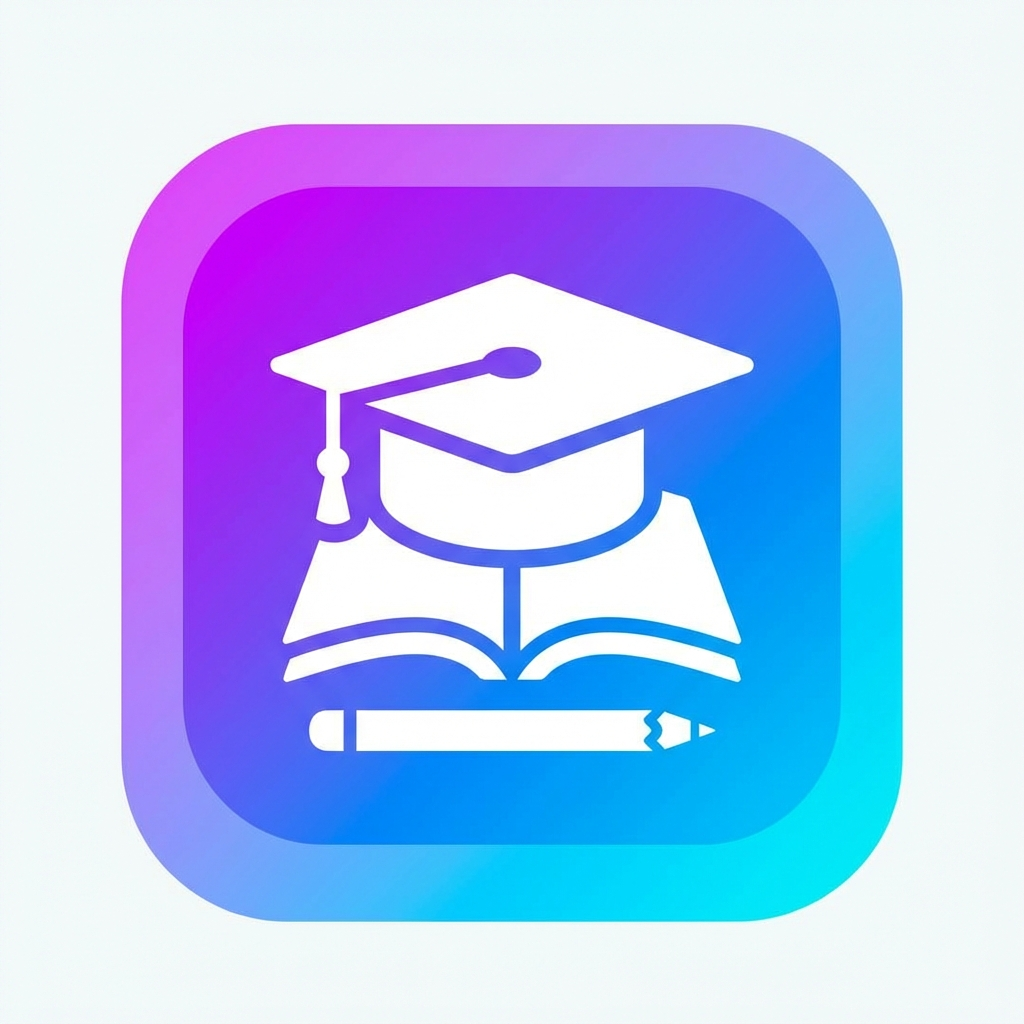
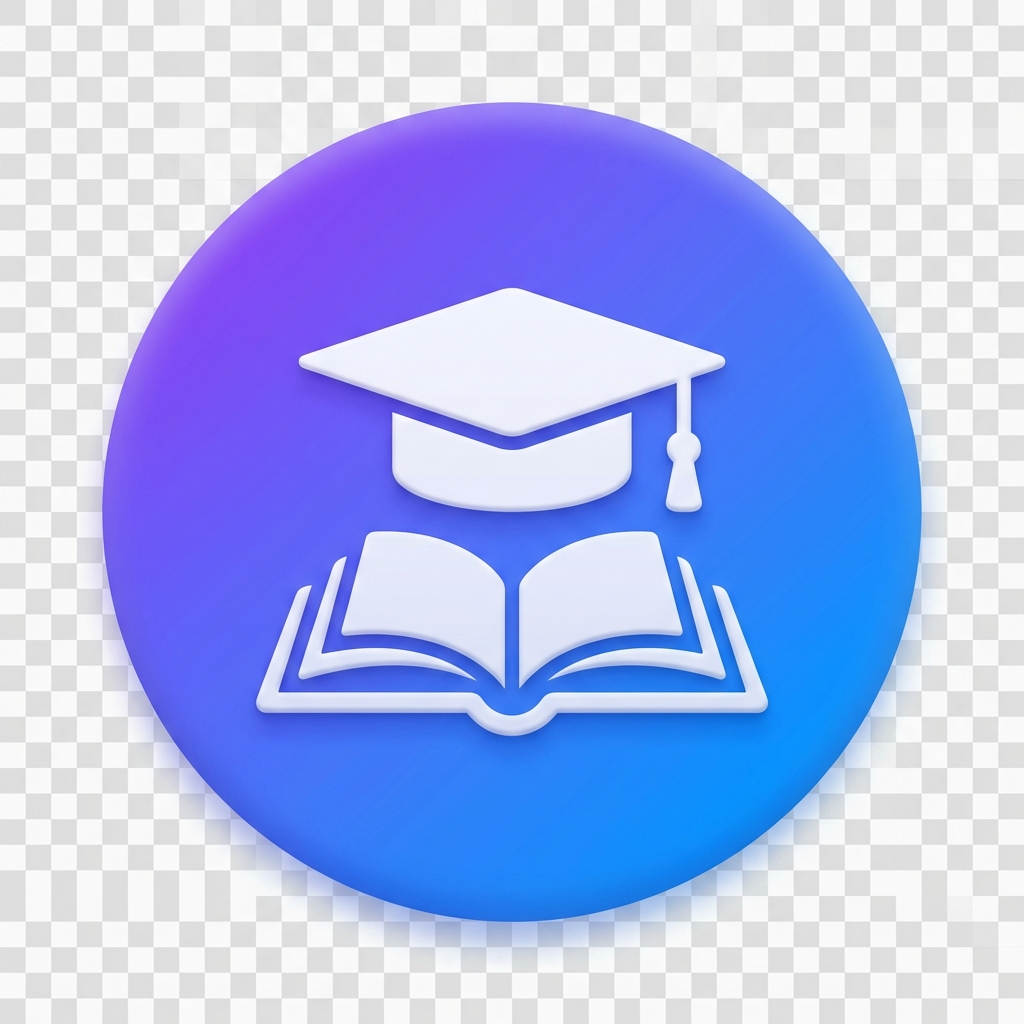
UI 개선: 원형 아이콘, AI 상담 제목 변경, 동일 건축물 학원목록 정보 강화

diff --git a/coding/academy_search/src/App.jsx b/coding/academy_search/src/App.jsx
@@ -548,62 +548,37 @@ function App() {
           <div
             onClick={() => window.open('https://notebooklm.google.com/notebook/bc3a0bc5-bad0-4450-bf8b-96573e39fdce', '_blank')}
             style={{
-              position: 'relative',
-              zIndex: 1,
-              padding: '16px 20px',
-              background: 'linear-gradient(135deg, var(--primary-glow) 0%, var(--bg-card) 100%)',
-              border: '2px solid var(--primary)',
-              borderRadius: '16px',
+              padding: '14px 18px',
+              background: 'var(--bg-card)',
+              border: '1px solid var(--border-color)',
+              borderRadius: '12px',
               cursor: 'pointer',
-              transition: 'all 0.3s ease',
-              boxShadow: '0 4px 12px rgba(99, 102, 241, 0.15)',
+              transition: 'all 0.2s',
               display: 'flex',
               alignItems: 'center',
               justifyContent: 'space-between',
-              gap: '12px'
+              gap: '10px'
             }}
             onMouseOver={(e) => {
-              e.currentTarget.style.transform = 'translateY(-2px)';
-              e.currentTarget.style.boxShadow = '0 6px 20px rgba(99, 102, 241, 0.25)';
+              e.currentTarget.style.borderColor = 'var(--primary)';
+              e.currentTarget.style.backgroundColor = 'var(--primary-glow)';
             }}
             onMouseOut={(e) => {
-              e.currentTarget.style.transform = 'translateY(0)';
-              e.currentTarget.style.boxShadow = '0 4px 12px rgba(99, 102, 241, 0.15)';
+              e.currentTarget.style.borderColor = 'var(--border-color)';
+              e.currentTarget.style.backgroundColor = 'var(--bg-card)';
             }}
           >
-            <div style={{ display: 'flex', alignItems: 'center', gap: '12px', flex: 1 }}>
-              <div style={{
-                width: '40px',
-                height: '40px',
-                background: 'var(--primary)',
-                borderRadius: '12px',
-                display: 'flex',
-                alignItems: 'center',
-                justifyContent: 'center',
-                fontSize: '20px',
-                flexShrink: 0
+            <div style={{ display: 'flex', alignItems: 'center', gap: '10px' }}>
+              <span style={{ fontSize: '18px' }}>💡</span>
+              <span style={{
+                fontSize: '0.95rem',
+                fontWeight: '600',
+                color: 'var(--text-main)'
               }}>
-                💡
-              </div>
-              <div style={{ flex: 1 }}>
-                <div style={{
-                  fontSize: '1rem',
-                  fontWeight: '700',
-                  color: 'var(--primary)',
-                  marginBottom: '4px'
-                }}>
-                  학원 법령 AI 상담 (NotebookLM)
-                </div>
-                <div style={{
-                  fontSize: '0.85rem',
-                  color: 'var(--text-muted)',
-                  fontWeight: '500'
-                }}>
-                  궁금한 점을 즉시 물어보세요
-                </div>
-              </div>
+                학원 업무 AI 상담 (노트북LM)
+              </span>
             </div>
-            <svg width="20" height="20" viewBox="0 0 24 24" fill="none" stroke="var(--primary)" strokeWidth="2.5" strokeLinecap="round" strokeLinejoin="round">
+            <svg width="16" height="16" viewBox="0 0 24 24" fill="none" stroke="var(--text-muted)" strokeWidth="2.5" strokeLinecap="round" strokeLinejoin="round">
               <path d="M18 13v6a2 2 0 0 1-2 2H5a2 2 0 0 1-2-2V8a2 2 0 0 1 2-2h6"></path>
               <polyline points="15 3 21 3 21 9"></polyline>
               <line x1="10" y1="14" x2="21" y2="3"></line>
@@ -691,176 +666,75 @@ function App() {
                     <span>📚</span>
                     <span>업무 메뉴얼</span>
                   </h4>
-                  <div style={{ display: 'flex', flexDirection: 'column', gap: '12px' }}>
-                    {/* 경기도 메뉴얼 */}
-                    <div style={{
-                      padding: '14px',
-                      background: 'var(--bg-main)',
-                      border: '1px solid var(--border-color)',
-                      borderRadius: '8px'
-                    }}>
-                      <div style={{
-                        fontSize: '0.85rem',
-                        fontWeight: '600',
+                  <div style={{ display: 'flex', flexDirection: 'column', gap: '8px' }}>
+                    <a
+                      href="https://drive.google.com/file/d/1I6j4VkHEeDzKc6YvfTcv8Wl48LAzbSsN/preview"
+                      target="_blank"
+                      rel="noopener noreferrer"
+                      style={{
+                        padding: '10px 14px',
+                        background: 'var(--bg-main)',
+                        border: '1px solid var(--border-color)',
+                        borderRadius: '8px',
                         color: 'var(--text-main)',
-                        marginBottom: '8px'
-                      }}>
-                        • 경기도교육청 학원 업무 메뉴얼 (2024) - 474p
-                      </div>
-                      <div style={{ display: 'flex', gap: '8px' }}>
-                        <a
-                          href="https://drive.google.com/file/d/1I6j4VkHEeDzKc6YvfTcv8Wl48LAzbSsN/preview"
-                          target="_blank"
-                          rel="noopener noreferrer"
-                          style={{
-                            flex: 1,
-                            padding: '8px 12px',
-                            background: 'var(--bg-card)',
-                            color: 'var(--text-main)',
-                            border: '1px solid var(--border-color)',
-                            textDecoration: 'none',
-                            fontSize: '0.8rem',
-                            fontWeight: '600',
-                            borderRadius: '6px',
-                            textAlign: 'center',
-                            transition: 'all 0.2s',
-                            display: 'flex',
-                            alignItems: 'center',
-                            justifyContent: 'center',
-                            gap: '4px'
-                          }}
-                          onMouseOver={(e) => {
-                            e.currentTarget.style.borderColor = 'var(--primary)';
-                            e.currentTarget.style.backgroundColor = 'var(--primary-glow)';
-                          }}
-                          onMouseOut={(e) => {
-                            e.currentTarget.style.borderColor = 'var(--border-color)';
-                            e.currentTarget.style.backgroundColor = 'var(--bg-card)';
-                          }}
-                        >
-                          <span>📱</span>
-                          <span>웹에서 보기</span>
-                        </a>
-                        <a
-                          href="https://drive.google.com/uc?export=download&id=1I6j4VkHEeDzKc6YvfTcv8Wl48LAzbSsN"
-                          target="_blank"
-                          rel="noopener noreferrer"
-                          style={{
-                            flex: 1,
-                            padding: '8px 12px',
-                            background: 'var(--bg-card)',
-                            color: 'var(--text-main)',
-                            border: '1px solid var(--border-color)',
-                            textDecoration: 'none',
-                            fontSize: '0.8rem',
-                            fontWeight: '600',
-                            borderRadius: '6px',
-                            textAlign: 'center',
-                            transition: 'all 0.2s',
-                            display: 'flex',
-                            alignItems: 'center',
-                            justifyContent: 'center',
-                            gap: '4px'
-                          }}
-                          onMouseOver={(e) => {
-                            e.currentTarget.style.borderColor = 'var(--primary)';
-                            e.currentTarget.style.backgroundColor = 'var(--primary-glow)';
-                          }}
-                          onMouseOut={(e) => {
-                            e.currentTarget.style.borderColor = 'var(--border-color)';
-                            e.currentTarget.style.backgroundColor = 'var(--bg-card)';
-                          }}
-                        >
-                          <span>📥</span>
-                          <span>다운로드</span>
-                        </a>
-                      </div>
-                    </div>
-
-                    {/* 서울시 메뉴얼 */}
-                    <div style={{
-                      padding: '14px',
-                      background: 'var(--bg-main)',
-                      border: '1px solid var(--border-color)',
-                      borderRadius: '8px'
-                    }}>
-                      <div style={{
+                        textDecoration: 'none',
                         fontSize: '0.85rem',
-                        fontWeight: '600',
+                        fontWeight: '500',
+                        transition: 'all 0.2s',
+                        display: 'flex',
+                        alignItems: 'center',
+                        justifyContent: 'space-between'
+                      }}
+                      onMouseOver={(e) => {
+                        e.currentTarget.style.borderColor = 'var(--primary)';
+                        e.currentTarget.style.backgroundColor = 'var(--primary-glow)';
+                      }}
+                      onMouseOut={(e) => {
+                        e.currentTarget.style.borderColor = 'var(--border-color)';
+                        e.currentTarget.style.backgroundColor = 'var(--bg-main)';
+                      }}
+                    >
+                      <span>• 경기도교육청 학원 업무 메뉴얼</span>
+                      <svg width="14" height="14" viewBox="0 0 24 24" fill="none" stroke="currentColor" strokeWidth="2" strokeLinecap="round" strokeLinejoin="round">
+                        <path d="M18 13v6a2 2 0 0 1-2 2H5a2 2 0 0 1-2-2V8a2 2 0 0 1 2-2h6"></path>
+                        <polyline points="15 3 21 3 21 9"></polyline>
+                        <line x1="10" y1="14" x2="21" y2="3"></line>
+                      </svg>
+                    </a>
+                    <a
+                      href="https://drive.google.com/file/d/1ppixrFV1wEFBXTicg_-muU81mn8Gvn8E/preview"
+                      target="_blank"
+                      rel="noopener noreferrer"
+                      style={{
+                        padding: '10px 14px',
+                        background: 'var(--bg-main)',
+                        border: '1px solid var(--border-color)',
+                        borderRadius: '8px',
                         color: 'var(--text-main)',
-                        marginBottom: '8px'
-                      }}>
-                        • 서울특별시교육청 학원 업무 메뉴얼 (2025) - 440p
-                      </div>
-                      <div style={{ display: 'flex', gap: '8px' }}>
-                        <a
-                          href="https://drive.google.com/file/d/1ppixrFV1wEFBXTicg_-muU81mn8Gvn8E/preview"
-                          target="_blank"
-                          rel="noopener noreferrer"
-                          style={{
-                            flex: 1,
-                            padding: '8px 12px',
-                            background: 'var(--bg-card)',
-                            color: 'var(--text-main)',
-                            border: '1px solid var(--border-color)',
-                            textDecoration: 'none',
-                            fontSize: '0.8rem',
-                            fontWeight: '600',
-                            borderRadius: '6px',
-                            textAlign: 'center',
-                            transition: 'all 0.2s',
-                            display: 'flex',
-                            alignItems: 'center',
-                            justifyContent: 'center',
-                            gap: '4px'
-                          }}
-                          onMouseOver={(e) => {
-                            e.currentTarget.style.borderColor = 'var(--primary)';
-                            e.currentTarget.style.backgroundColor = 'var(--primary-glow)';
-                          }}
-                          onMouseOut={(e) => {
-                            e.currentTarget.style.borderColor = 'var(--border-color)';
-                            e.currentTarget.style.backgroundColor = 'var(--bg-card)';
-                          }}
-                        >
-                          <span>📱</span>
-                          <span>웹에서 보기</span>
-                        </a>
-                        <a
-                          href="https://drive.google.com/uc?export=download&id=1ppixrFV1wEFBXTicg_-muU81mn8Gvn8E"
-                          target="_blank"
-                          rel="noopener noreferrer"
-                          style={{
-                            flex: 1,
-                            padding: '8px 12px',
-                            background: 'var(--bg-card)',
-                            color: 'var(--text-main)',
-                            border: '1px solid var(--border-color)',
-                            textDecoration: 'none',
-                            fontSize: '0.8rem',
-                            fontWeight: '600',
-                            borderRadius: '6px',
-                            textAlign: 'center',
-                            transition: 'all 0.2s',
-                            display: 'flex',
-                            alignItems: 'center',
-                            justifyContent: 'center',
-                            gap: '4px'
-                          }}
-                          onMouseOver={(e) => {
-                            e.currentTarget.style.borderColor = 'var(--primary)';
-                            e.currentTarget.style.backgroundColor = 'var(--primary-glow)';
-                          }}
-                          onMouseOut={(e) => {
-                            e.currentTarget.style.borderColor = 'var(--border-color)';
-                            e.currentTarget.style.backgroundColor = 'var(--bg-card)';
-                          }}
-                        >
-                          <span>📥</span>
-                          <span>다운로드</span>
-                        </a>
-                      </div>
-                    </div>
+                        textDecoration: 'none',
+                        fontSize: '0.85rem',
+                        fontWeight: '500',
+                        transition: 'all 0.2s',
+                        display: 'flex',
+                        alignItems: 'center',
+                        justifyContent: 'space-between'
+                      }}
+                      onMouseOver={(e) => {
+                        e.currentTarget.style.borderColor = 'var(--primary)';
+                        e.currentTarget.style.backgroundColor = 'var(--primary-glow)';
+                      }}
+                      onMouseOut={(e) => {
+                        e.currentTarget.style.borderColor = 'var(--border-color)';
+                        e.currentTarget.style.backgroundColor = 'var(--bg-main)';
+                      }}
+                    >
+                      <span>• 서울특별시교육청 학원 업무 메뉴얼</span>
+                      <svg width="14" height="14" viewBox="0 0 24 24" fill="none" stroke="currentColor" strokeWidth="2" strokeLinecap="round" strokeLinejoin="round">
+                        <path d="M18 13v6a2 2 0 0 1-2 2H5a2 2 0 0 1-2-2V8a2 2 0 0 1 2-2h6"></path>
+                        <polyline points="15 3 21 3 21 9"></polyline>
+                        <line x1="10" y1="14" x2="21" y2="3"></line>
+                      </svg>
+                    </a>
                   </div>
                 </div>
 

diff --git a/coding/academy_search/src/components/DetailView.jsx b/coding/academy_search/src/components/DetailView.jsx
@@ -362,24 +362,59 @@ export default function DetailView({ academy, allAcademies = [], onBack, onSelec
                             const totalFloors = floors.includes('~') ? floors.split('~')[1].trim().replace(/[^0-9]/g, '') : '-';
                             const buildingArea = formatNumber(firstAcademy.facilities?.buildingArea || academy.facilities?.buildingArea);
 
+                            // Calculate total area sum and dedicated area sum
+                            const totalAreaSum = sameBuildingAcademies.reduce((sum, a) => {
+                                const area = parseFloat(a.facilities?.totalArea) || 0;
+                                return sum + area;
+                            }, 0);
+
+                            const dedicatedAreaSum = sameBuildingAcademies.reduce((sum, a) => {
+                                const area = parseFloat(a.facilities?.dedicatedArea) || 0;
+                                return sum + area;
+                            }, 0);
+
                             return (
                                 <Section title={`동일 건축물 학원목록 (${sameBuildingAcademies.length}개)`}>
-                                    {buildingName && (
+                                    <div style={{
+                                        fontSize: '0.9rem',
+                                        color: 'var(--text-muted)',
+                                        marginBottom: '16px',
+                                        padding: '12px',
+                                        backgroundColor: 'var(--bg-light)',
+                                        borderRadius: '8px',
+                                        lineHeight: '1.6'
+                                    }}>
                                         <div style={{
-                                            fontSize: '0.9rem',
-                                            color: 'var(--text-muted)',
-                                            marginBottom: '16px',
-                                            padding: '8px 12px',
-                                            backgroundColor: 'var(--bg-light)',
-                                            borderRadius: '8px',
                                             display: 'flex',
-                                            alignItems: 'center',
-                                            gap: '6px'
+                                            alignItems: 'flex-start',
+                                            gap: '6px',
+                                            marginBottom: '8px'
                                         }}>
-                                            <span style={{ fontSize: '1rem' }}>📍</span>
-                                            <span>{buildingName} {totalFloors}층 건물 (연면적 {buildingArea}㎡)</span>
+                                            <span style={{ fontSize: '1rem', marginTop: '2px' }}>📍</span>
+                                            <div style={{ flex: 1 }}>
+                                                <div style={{ marginBottom: '4px' }}>
+                                                    {baseAddress}
+                                                </div>
+                                                <div style={{ fontWeight: '600', color: 'var(--text-main)' }}>
+                                                    {buildingName && `${buildingName} `}{totalFloors}층 건물 (연면적 {buildingArea}㎡)
+                                                </div>
+                                            </div>
                                         </div>
-                                    )}
+                                        <div style={{
+                                            fontSize: '0.85rem',
+                                            color: 'var(--text-main)',
+                                            marginTop: '8px',
+                                            paddingTop: '8px',
+                                            borderTop: '1px solid var(--border-color)'
+                                        }}>
+                                            <div style={{ marginBottom: '4px' }}>
+                                                <strong>[학원({sameBuildingAcademies.length}개)]</strong> 총면적 합계: <strong>{formatNumber(totalAreaSum.toFixed(2))}㎡</strong>
+                                            </div>
+                                            <div>
+                                                <strong>[학원({sameBuildingAcademies.length}개)]</strong> 전용면적 합계: <strong>{formatNumber(dedicatedAreaSum.toFixed(2))}㎡</strong>
+                                            </div>
+                                        </div>
+                                    </div>
                                     {sameBuildingAcademies.map((a, idx) => {
                                         const roomRange = formatRoomRange(a.address);
                                         const isCurrentAcademy = a.id === academy.id;
